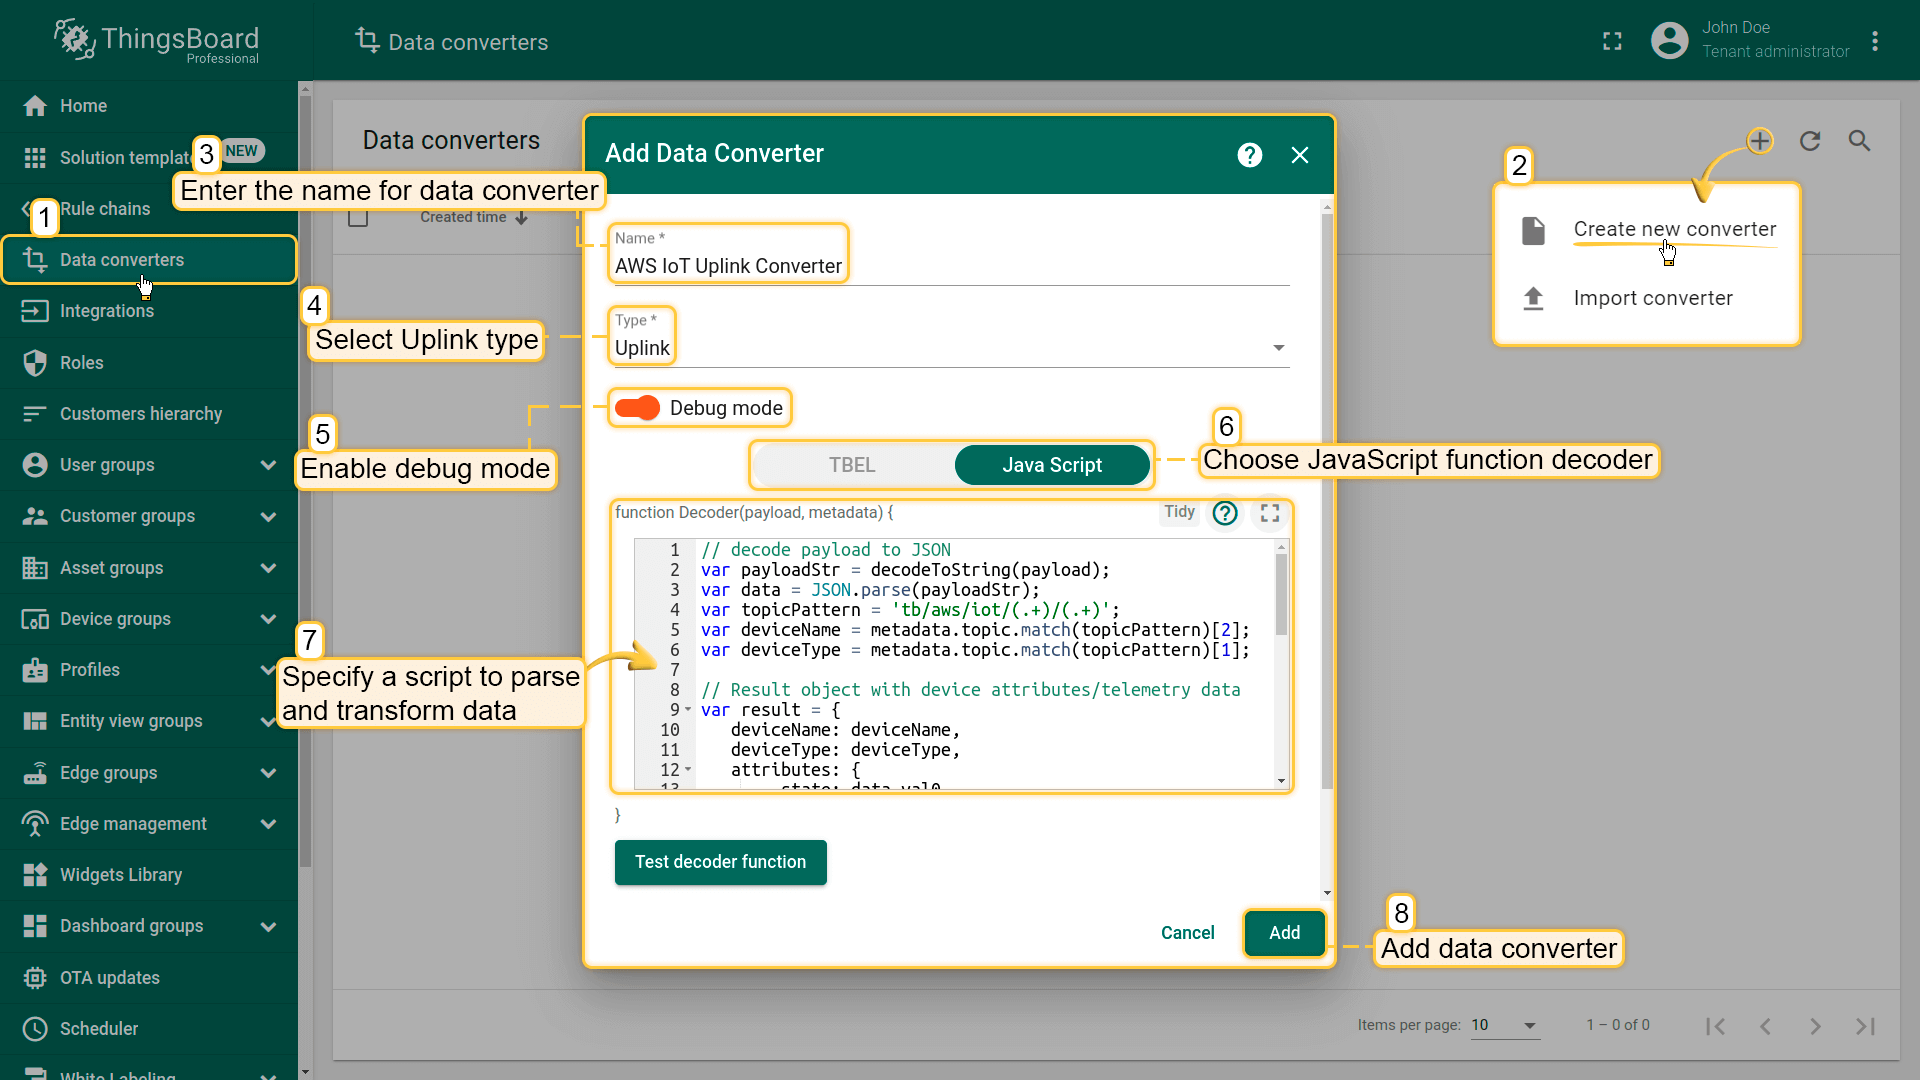
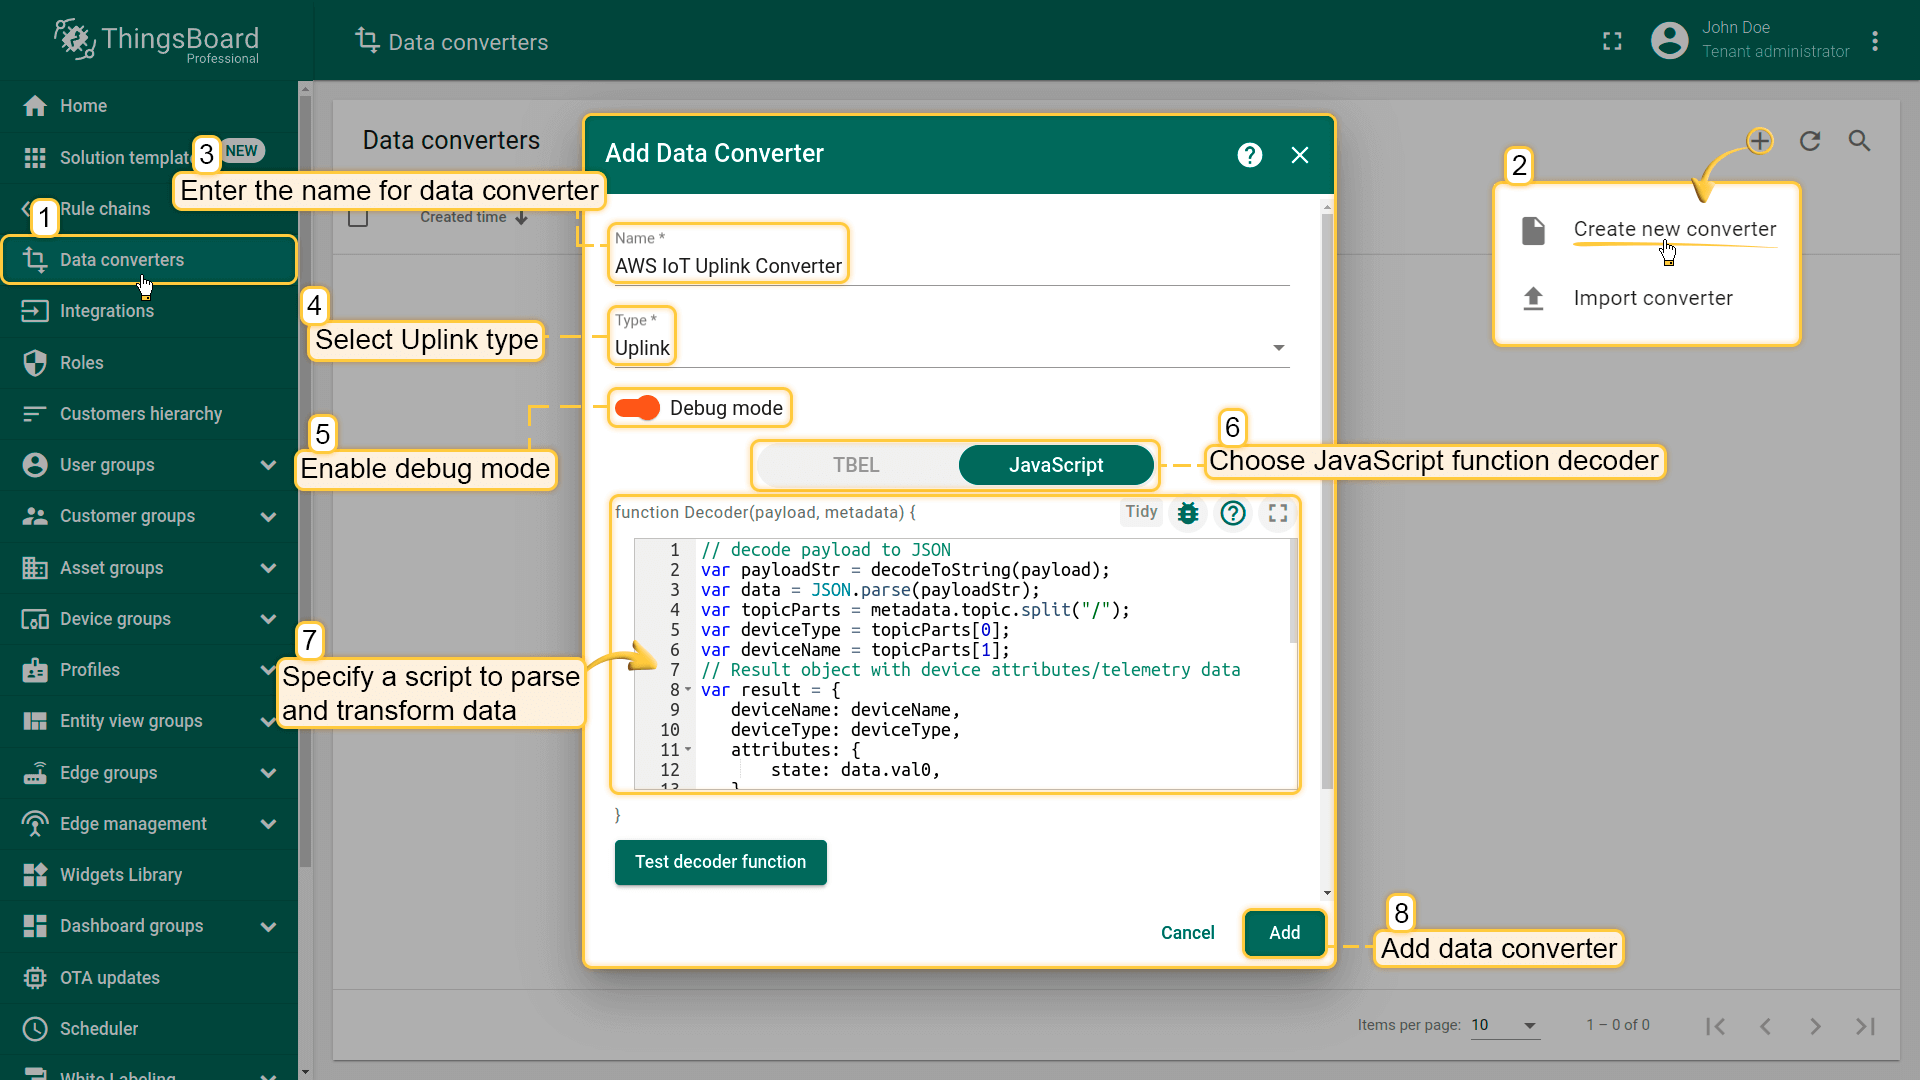
edited uplink converter tbel and js

Changed region(s): [[0.3125, 0.3667, 0.875, 0.7333]]

diff --git a/_includes/templates/integration/aws-iot/aws-iot-uplink-converter-config-javascript.md b/_includes/templates/integration/aws-iot/aws-iot-uplink-converter-config-javascript.md
@@ -4,35 +4,30 @@
 // decode payload to JSON
 var payloadStr = decodeToString(payload);
 var data = JSON.parse(payloadStr);
-var topicPattern = 'tb/aws/iot/(.+)/(.+)';
-var deviceName = metadata.topic.match(topicPattern)[2];
-var deviceType = metadata.topic.match(topicPattern)[1];
-
+var topicParts = metadata.topic.split("/");
+var deviceType = topicParts[0];
+var deviceName = topicParts[1];
 // Result object with device attributes/telemetry data
 var result = {
    deviceName: deviceName,
    deviceType: deviceType,
    attributes: {
-        state: data.val0,
+       state: data.val0,
    },
    telemetry: {
        temperature: data.val1,
-       fan_ins:     data.val2,
-       fan_out:     data.val3,
+       fan_ins: data.val2,
+       fan_out: data.val3,
    }
 };
-
 /** Helper functions **/
+
 function decodeToString(payload) {
-   return String.fromCharCode.apply(String, payload);
+    return String.fromCharCode.apply(String, payload);
 }
 function decodeToJson(payload) {
-   // convert payload to string.
-   var str = decodeToString(payload);
-
-   // parse string to JSON
-   var data = JSON.parse(str);
-   return data;
+   // covert payload to string and then parse string to JSON
+   return JSON.parse(decodeToString(payload));
 }
 return result;
 ```

diff --git a/_includes/templates/integration/aws-iot/aws-iot-uplink-converter-config-tbel.md b/_includes/templates/integration/aws-iot/aws-iot-uplink-converter-config-tbel.md
@@ -4,8 +4,8 @@
 // decode payload to JSON
 var data = decodeToJson(payload);
 var topicParts = metadata.topic.split("/");
-var deviceType = topicParts[3];
-var deviceName = topicParts[4];
+var deviceType = topicParts[0];
+var deviceName = topicParts[1];
 // Result object with device attributes/telemetry data
 var result = {
    deviceName: deviceName,
@@ -19,8 +19,6 @@ var result = {
        fan_out: data.val3,
    }
 };
-
-/** Helper functions 'decodeToString' and 'decodeToJson' are already built-in **/
 
 return result;
 ```
